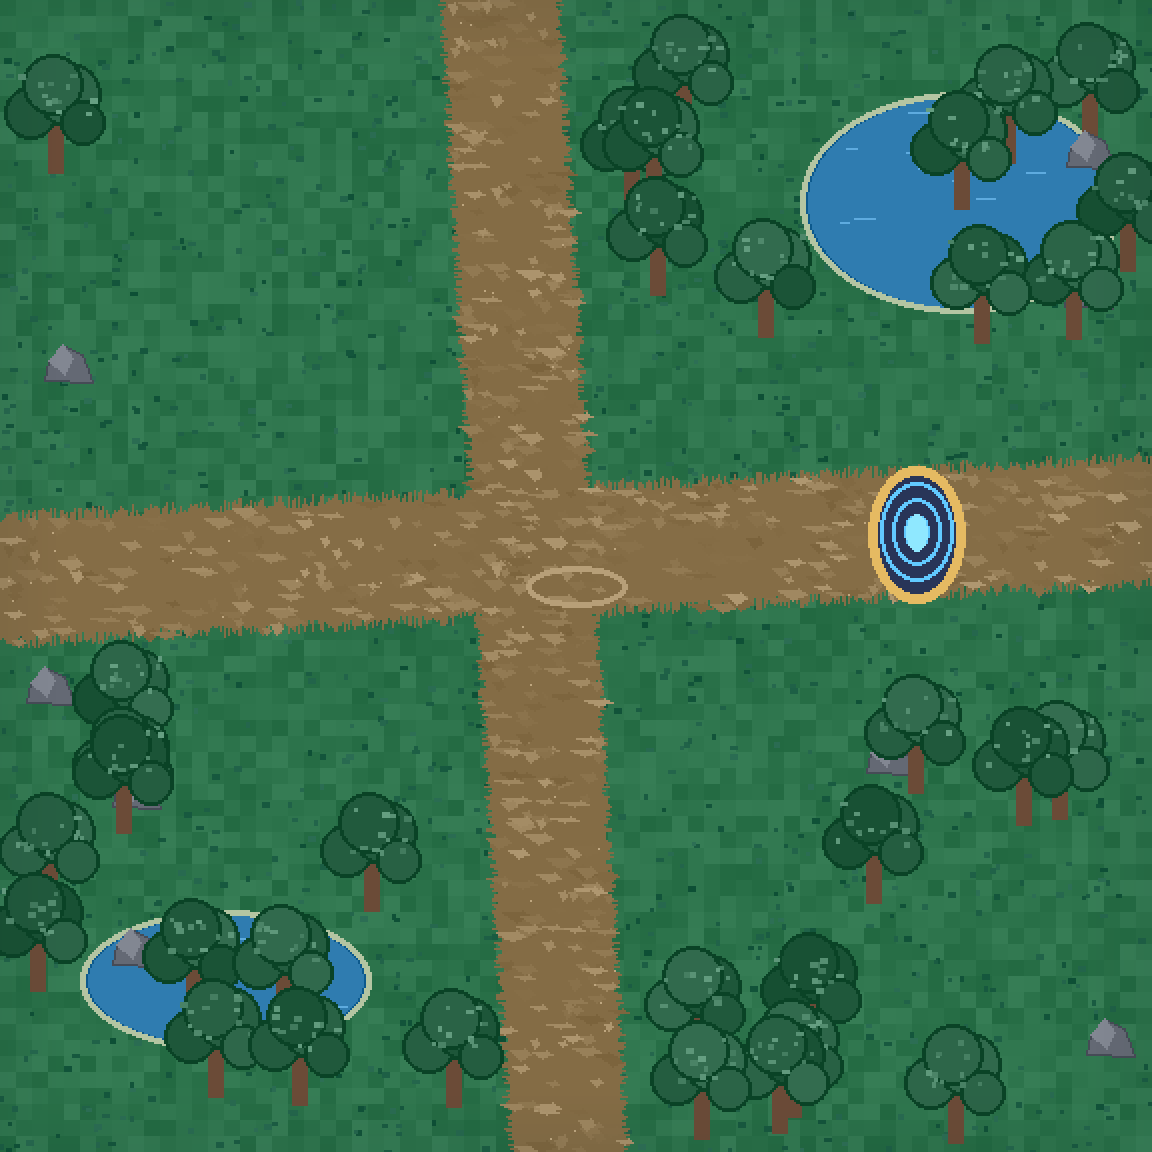
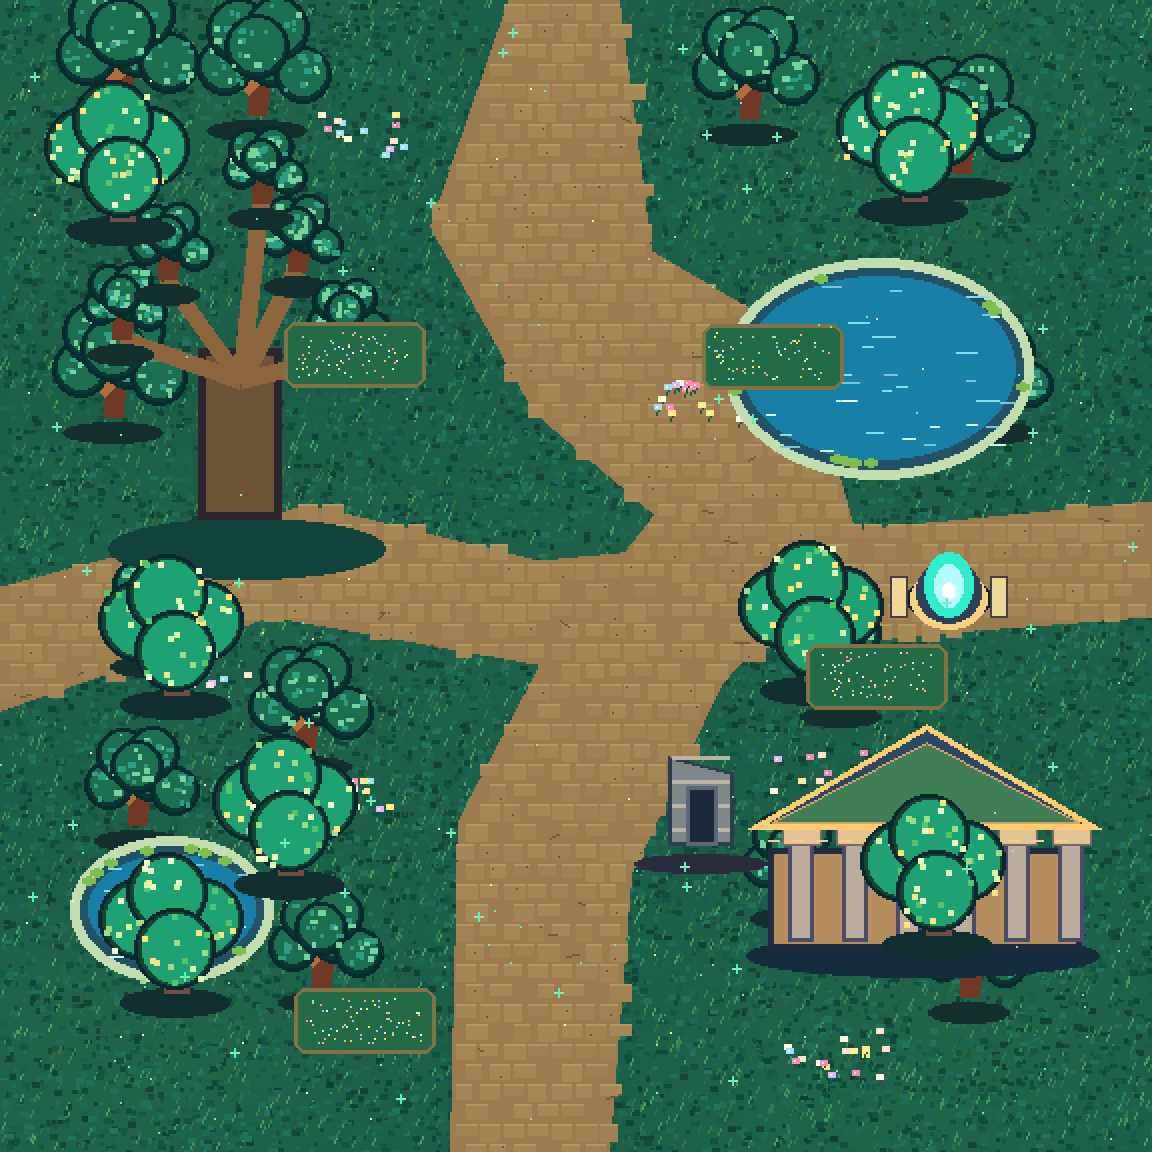
art(v0.5): ship detailed village and forest maps plus reproducible generator and atlas contract

diff --git a/tools/upgrade_assets_v05.py b/tools/upgrade_assets_v05.py
@@ -1,0 +1,291 @@
+from PIL import Image, ImageDraw, ImageEnhance, ImageFilter, ImageFont
+from pathlib import Path
+import math,random,json
+R=Path(__file__).resolve().parents[1]/'assets'
+M=R/'maps';S=R/'sprites';F=R/'effects';U=R/'ui'
+for p in [M,S,F,U]:p.mkdir(exist_ok=True,parents=True)
+PALETTES=[('#e9ad61','#975c49','#629f63','#57bada'),('#9bdca9','#487b59','#80d9b9','#5be6bc'),('#eacc94','#da9149','#bfbc6b','#92d4f5'),('#aac5ed','#7f91c5','#87a69c','#b0dcff'),('#ffd19c','#ba7055','#d7aa6c','#fed17d'),('#d0f2ff','#6e9fcb','#e9f5ff','#84dbff'),('#ffad6b','#b94142','#8c4953','#ff6d44'),('#cbb1e9','#62477c','#a491c2','#b56bee'),('#fff3d5','#a5b9d0','#b1f1e3','#ffd87a'),('#f6a28c','#832b37','#6b475d','#fd764e')]
+def C(t):return tuple(int(t.lstrip('#')[i:i+2],16) for i in (0,2,4))
+def mix(a,b,t):return tuple(int(a[k]*(1-t)+b[k]*t) for k in range(3))
+def rgba(color,a=255):return (*C(color),a)
+def hline(d,x,y,w,c,t=1):d.rectangle((x,y,x+w,y+t),fill=c)
+def brick(d,x,y,w,h,r,col):
+ d.rectangle((x,y,x+w,y+h),fill=col,outline='#564a60',width=2)
+ for k in range(int(h/7)):
+  yy=y+4+k*7
+  for j in range(int(w/16)+1):
+   xx=x+(j*16+(8 if k%2 else 0))
+   if xx<=x+w-5:d.line((xx,yy,xx+9,yy),fill='#dbc4ab',width=1)
+   if r.random()<.25:d.point((xx+4,yy-3),fill='#736671')
+def fortified_building(d,r,x,y,w,h,roof,tone=0):
+ # World-space building with wall facade, crenellations, window arches, flags and roof tile highlights.
+ d.ellipse((x-10,y+h-4,x+w+13,y+h+13),fill='#293743')
+ brick(d,x+4,y+12,w-8,h-8,r,'#a5a4a0' if tone==0 else '#8b7d77')
+ for ix in range(x+15,x+w-12,23):
+  d.rounded_rectangle((ix,y+28,ix+11,y+45),3,fill='#263449',outline='#d6b27f',width=2)
+  d.line((ix+5,y+30,ix+5,y+40),fill='#f4dc97',width=1)
+ for ix in range(x+8,x+w-6,14):d.rectangle((ix,y+4,ix+9,y+15),fill='#d6c3a5',outline='#6a5a60')
+ d.polygon([(x-15,y+15),(x+w//2,y-30),(x+w+14,y+15)],fill='#3b3346',outline='#f0bd70',width=2)
+ d.polygon([(x-10,y+9),(x+w//2,y-25),(x+w+9,y+9)],fill=roof,outline='#483247',width=2)
+ for k in range(4):
+  yy=y-17+k*7;span=int(w*(k+1)/10)
+  d.line((x+w//2-span,yy,x+w//2+span,yy),fill='#f5c58e',width=2)
+ for xx in range(x+13,x+w-6,16):d.line((xx,y+12,xx+6,y+16),fill='#76434b',width=1)
+ for side in [x+4,x+w-5]:
+  d.line((side,y+2,side,y-36),fill='#493948',width=2)
+  d.polygon([(side,y-34),(side+12,y-30),(side,y-23)],fill='#2a66aa')
+  d.line((side+2,y-30,side+8,y-30),fill='#efcf74',width=1)
+def fancy_tower(d,r,x,y,h=105):
+ d.ellipse((x-30,y-6,x+30,y+13),fill='#20303b')
+ d.polygon([(x-22,y),(x-24,y-h+22),(x+21,y-h+22),(x+21,y)],fill='#9ea7a8',outline='#55616b',width=3)
+ for k in range(5):
+  yy=y-h+24+k*16;d.line((x-21,yy,x+20,yy),fill='#e0ccae',width=2)
+ for yy in [y-h+46,y-h+66]:
+  d.rounded_rectangle((x-7,yy-7,x+6,yy+8),4,fill='#2c3550',outline='#edc783',width=2)
+ d.polygon([(x-32,y-h+23),(x,y-h-21),(x+33,y-h+23)],fill='#44344e',outline='#efc282',width=2)
+ d.polygon([(x-26,y-h+19),(x,y-h-16),(x+27,y-h+19)],fill='#405d9e',outline='#d8a967')
+ d.line((x,y-h-14,x,y-h-36),fill='#dec991',width=2)
+ d.polygon([(x,y-h-34),(x+18,y-h-29),(x,y-h-20)],fill='#d64e5b')
+def lamp(d,x,y):
+ d.ellipse((x-7,y,x+10,y+6),fill='#2a3842')
+ d.line((x,y,x,y-29),fill='#3b4056',width=5)
+ d.rounded_rectangle((x-7,y-41,x+6,y-28),2,fill='#edb75f',outline='#4c4150',width=2)
+ d.rectangle((x-3,y-40,x+3,y-30),fill='#ffe8a1')
+ d.polygon([(x-9,y-42),(x,y-49),(x+9,y-42)],fill='#424156')
+def decorated_tree(d,r,x,y,s=1.0,col='#49865d'):
+ z=int(25*s);d.ellipse((x-z,y-2,x+z,y+12),fill='#1a3233')
+ d.polygon([(x-5,y),(x+7,y),(x+6,y-31*s),(x-5,y-32*s)],fill='#6d5149')
+ for j,(ax,ay) in enumerate([(-.65,-1.35),(.55,-1.36),(-.13,-1.82),(0,-.8)]):
+  cx=int(x+z*ax);cy=int(y+z*ay);rr=int(z*.77)
+  d.ellipse((cx-rr,cy-rr,cx+rr,cy+rr),fill='#204536',outline='#132c32',width=2)
+  d.ellipse((cx-rr+4,cy-rr+3,cx+rr-3,cy+rr-3),fill=col)
+  for _ in range(14):
+   xx=cx+r.randint(-rr+3,rr-4);yy=cy+r.randint(-rr+3,rr-4)
+   d.rectangle((xx,yy,xx+2,yy+2),fill=r.choice(['#9fd08d','#d4eead','#5cbb72','#ffda83','#e1f1c5']))
+def banner(d,x,y,color='#335da2'):
+ d.line((x,y-63,x,y+3),fill='#33394c',width=3)
+ d.line((x,y-62,x+25,y-62),fill='#e4b96d',width=3)
+ d.polygon([(x+3,y-58),(x+22,y-58),(x+22,y-21),(x+12,y-28),(x+3,y-21)],fill=color,outline='#f9d693',width=2)
+ d.polygon([(x+12,y-52),(x+18,y-45),(x+12,y-33),(x+6,y-45)],fill='#ffdc80')
+def flowerbeds(d,r,x,y,w=70,h=32):
+ d.ellipse((x,y+h-9,x+w,y+h),fill='#315245')
+ d.rounded_rectangle((x,y,x+w,y+h),6,fill='#2d684a',outline='#7f724d',width=2)
+ for _ in range(70):
+  xx=x+r.randint(6,w-7);yy=y+r.randint(4,h-5)
+  d.point((xx,yy),fill=r.choice(['#f9e997','#f49ba9','#a3bcff','#fdfdf4','#eebd69','#a4d6ae']))
+def temple(d,r,x,y,idx):
+ color=PALETTES[idx];base='#555264' if idx in (3,7,9) else '#ad8b65'
+ d.ellipse((x-11,y+65,x+165,y+86),fill='#1d303f')
+ d.rectangle((x,y+22,x+156,y+72),fill=base,outline='#272d40',width=3)
+ for j in range(6):
+  xx=x+j*27+10;d.rectangle((xx,y+18,xx+12,y+68),fill='#b4a89c',outline='#4e4e65',width=2)
+  d.rectangle((xx-3,y+10,xx+16,y+20),fill='#d8bd95',outline='#756a68')
+ d.polygon([(x-10,y+12),(x+79,y-40),(x+166,y+12)],fill='#334862',outline='#efc57a',width=3)
+ d.polygon([(x+2,y+9),(x+79,y-31),(x+155,y+9)],fill=color[1],outline='#cb9c70',width=1)
+ for k in range(13):
+  xx=x+k*12;d.line((xx,y+18,xx+5,y+18),fill='#eac495',width=1)
+def glitter(d,r,idx):
+ palette=PALETTES[idx]
+ for _ in range(175):
+  x=r.randrange(8,568);y=r.randrange(12,568)
+  if 209<x<350 and 200<y<360:continue
+  if r.random()<.22:
+   d.line((x-2,y,x+2,y),fill=palette[0],width=1);d.line((x,y-2,x,y+2),fill=palette[3],width=1)
+  else:d.point((x,y),fill=r.choice([palette[0],palette[2],'#f8ebbb']))
+for idx in range(10):
+ fp=M/f'map-{idx+1:02d}.png';img=Image.open(fp).convert('RGB').resize((576,576),Image.Resampling.NEAREST)
+ d=ImageDraw.Draw(img);r=random.Random(5505+idx)
+ # Preserve road intersection and spawn geometry; elaborate map periphery with detailed original tile buildings.
+ if idx==0:
+  fortified_building(d,r,18,52,125,79,'#ae564a')
+  fancy_tower(d,r,475,101,111)
+  fortified_building(d,r,391,383,138,68,'#be7356')
+  for x,y,sz in [(151,88,1.3),(399,168,1.0),(78,512,1.2),(524,467,1.05),(530,208,.9),(65,385,1.2)]:decorated_tree(d,r,x,y,sz)
+  for x,y in [(200,206),(350,206),(178,353),(390,342),(382,85)]:banner(d,x,y)
+  for x,y in [(198,382),(365,399),(113,200),(417,436),(67,258)]:flowerbeds(d,r,x,y)
+  for x,y in [(214,188),(338,187),(213,380),(346,384)]:lamp(d,x,y)
+ elif idx==1:
+  temple(d,r,384,402,idx)
+  for x,y in [(60,110),(456,100),(468,467),(87,496),(144,437),(407,340),(87,347)]:decorated_tree(d,r,x,y,1.1,idx and '#2d9873')
+  for x,y in [(142,161),(403,322),(351,162),(147,494)]:flowerbeds(d,r,x,y)
+ elif idx==2:
+  fortified_building(d,r,16,61,127,74,'#c16841')
+  fancy_tower(d,r,486,134,88)
+  for x,y in [(72,165),(425,92),(480,512),(73,491),(156,505)]:decorated_tree(d,r,x,y,.9,'#7dac54')
+  for x,y in [(174,204),(350,399),(414,355),(35,382)]:flowerbeds(d,r,x,y)
+ elif idx==3:
+  temple(d,r,395,395,idx);fancy_tower(d,r,116,146,105);fortified_building(d,r,10,439,148,83,'#657da3')
+  for x,y in [(137,388),(396,193),(161,200)]:banner(d,x,y,'#315788')
+ elif idx==4:
+  temple(d,r,385,384,idx);fortified_building(d,r,20,80,119,65,'#a97757');fancy_tower(d,r,470,120,89)
+ elif idx==5:
+  fancy_tower(d,r,129,148,111);temple(d,r,380,407,idx)
+  for x,y in [(80,413),(430,152),(479,509),(190,105)]:decorated_tree(d,r,x,y,.85,'#9fcae8')
+ elif idx==6:
+  temple(d,r,383,370,idx);fancy_tower(d,r,125,143,110)
+  for x,y in [(140,401),(403,202),(165,145)]:banner(d,x,y,'#9b2538')
+ elif idx==7:
+  temple(d,r,390,394,idx);fortified_building(d,r,36,82,138,76,'#553972');fancy_tower(d,r,481,116,109)
+ elif idx==8:
+  temple(d,r,384,384,idx);fortified_building(d,r,30,60,125,81,'#d5e0e8')
+  for x,y in [(67,424),(497,154),(478,480)]:decorated_tree(d,r,x,y,.9,'#b4e5e2')
+ else:
+  temple(d,r,381,391,idx);fortified_building(d,r,17,70,142,76,'#542b43');fancy_tower(d,r,483,146,96)
+ glitter(d,r,idx)
+ img=ImageEnhance.Color(img).enhance(1.13);img=ImageEnhance.Contrast(img).enhance(1.08)
+ img.resize((1152,1152),Image.Resampling.NEAREST).save(fp,optimize=True)
+ print('ENHANCED',idx+1,fp.stat().st_size)
+
+# 4-direction overlays preserving the sprite contract: 4 columns x 8 directions, each frame 48x48 with transparent background.
+for job in range(4):
+ r=random.Random(900+job);colors=[('#ffd98a','#f9a76d','#e6f9ff'),('#75e0a8','#e3ffbb','#d4ffc4'),('#73dbff','#c4eaff','#f5efff'),('#ffc16b','#ff713e','#fff4a1')][job]
+ sheet=Image.new('RGBA',(192,384),(0,0,0,0))
+ for dr in range(8):
+  for frame in range(4):
+   cell=Image.new('RGBA',(48,48));d=ImageDraw.Draw(cell)
+   n=math.sin(frame*math.pi/2);flap=4*n
+   if dr in (4,3,5):face=-1
+   elif dr in (1,7,6):face=1
+   else:face=0
+   # animated independent magical cape/wing layer, connected to back anchor at (24,27).
+   for side in [-1,1]:
+    if dr==4: width=9
+    else:width=14+int(flap*side*.5)
+    x=24+side*2;tipx=24+side*(21+int(abs(flap)))
+    d.polygon([(x,23),(24+side*10,17),(tipx,7-int(flap)),(24+side*width,31),(x,33)],fill=rgba(colors[1],220),outline=rgba(colors[0],250))
+    for k in range(3):
+     d.line((x+side*5,20+k*3,tipx-side*2,11+k*4-int(flap)),fill=rgba(colors[2],240),width=1)
+   for k in range(3):
+    x=6+((job*3+dr*7+frame*5+k*13)%34);y=6+((k*13+job*2+dr*3)%26)
+    d.line((x-2,y,x+2,y),fill=rgba(colors[0],230));d.line((x,y-2,x,y+2),fill=rgba(colors[2],230))
+   sheet.alpha_composite(cell,(frame*48,dr*48))
+ sheet.save(S/f'wing-{job}.png',optimize=True)
+ print('WING',job)
+
+# Ten visually distinct boss creatures, real 4x8 PNG atlases with sprite-frame alignment and skill pose differences.
+BOSS_LABELS=['Royal Slime','Ancient Treant','Thunder Griffin','Stone Guardian','Desert Pharaoh','Frost Wyrm','Ember Drake','Night Empress','Seraph','Immortal Demon']
+BOSS_COLORS=[('#fa80c5','#f9bfd7','#ffda5f'),('#3f8b56','#b3d890','#d2a661'),('#a87e44','#fff1cb','#b7dfff'),('#67738d','#c7cbd3','#e7ac75'),('#b48e58','#e3c58f','#4bcbff'),('#3c8fdf','#defbff','#76ddff'),('#aa3537','#ff8241','#ffdb66'),('#513066','#bd86dc','#eb9cff'),('#e6d8a4','#fff4de','#b5dffa'),('#4c253a','#e44145','#ff8733')]
+def draw_boss(d,kind,frame,direction):
+ r=random.Random(kind*500+frame*17+direction)
+ dark,light,accent=BOSS_COLORS[kind];bob=[0,1,0,-1][frame];cy=25+bob
+ d.ellipse((9,42,41,47),fill=(6,10,30,85))
+ # dark outline and oversize silhouette unique to each family
+ if kind==0:
+  d.ellipse((7,17+bob,43,42+bob),fill=rgba(dark),outline=rgba('#633d6b'),width=2)
+  d.ellipse((10,19+bob,40,30+bob),fill=rgba(light))
+  d.polygon([(15,18),(18,10),(23,14),(27,8),(30,15),(35,11),(35,20)],fill=rgba('#dba64a'),outline=rgba('#fff2a0'))
+  d.ellipse((21,12,28,17),fill=rgba('#f4d662'))
+ elif kind==1:
+  d.rectangle((19,17+bob,32,42+bob),fill=rgba('#805b40'),outline=rgba('#433842'),width=2)
+  for arm in [-1,1]:
+   d.line((25,28+bob,25+arm*18,19+bob),fill=rgba('#755b45'),width=6)
+   d.ellipse((min(25+arm*12,25+arm*23),12+bob,max(25+arm*12,25+arm*23),25+bob),fill=rgba(dark),outline=rgba(light))
+  for x,y in [(12,18),(23,12),(34,16),(19,9),(31,9)]:d.ellipse((x-7,y-6,x+7,y+6),fill=rgba(dark),outline=rgba(accent))
+ elif kind in (2,5,6,9):
+  d.polygon([(24,24),(5,9+bob),(8,32+bob),(20,36+bob),(25,43)],fill=rgba(dark),outline=rgba(accent))
+  d.polygon([(25,24),(42,9+bob),(39,32+bob),(30,38+bob),(26,43)],fill=rgba(dark),outline=rgba(accent))
+  d.ellipse((13,22+bob,36,40+bob),fill=rgba(dark),outline=rgba(light),width=2)
+  d.polygon([(11,26+bob),(15,12+bob),(22,17+bob),(28,8+bob),(34,22+bob),(37,27+bob)],fill=rgba(light),outline=rgba(accent))
+  for x in [18,29]:d.polygon([(x-4,17+bob),(x,6+bob),(x+5,18+bob)],fill=rgba(accent))
+ elif kind in (3,4,7,8):
+  d.polygon([(14,42+bob),(16,23+bob),(11,13+bob),(23,6+bob),(34,12+bob),(30,23+bob),(35,42+bob)],fill=rgba(dark),outline=rgba(light),width=2)
+  d.ellipse((15,11+bob,34,30+bob),fill=rgba(light),outline=rgba(accent),width=2)
+  for arm in [-1,1]:
+   d.polygon([(23+arm*7,24+bob),(23+arm*18,22+bob),(23+arm*20,40+bob),(23+arm*12,44+bob)],fill=rgba(dark),outline=rgba(accent))
+  if kind==8:
+   for arm in [-1,1]:d.polygon([(24+arm*8,18+bob),(24+arm*24,6+bob),(24+arm*20,31+bob)],fill=rgba('#f7f7ea'),outline=rgba(accent))
+  else:d.polygon([(12,10+bob),(15,4+bob),(22,9+bob),(27,3+bob),(34,9+bob)],fill=rgba(accent))
+ # eyes and glints
+ for x in [20,30]:
+  d.rectangle((x-2,23+bob,x+1,25+bob),fill=rgba('#172433'))
+  d.point((x,23+bob),fill=rgba('#ffffff'))
+ for k in range(12):
+  x=r.randint(3,45);y=r.randint(3,39)
+  if frame==2 or k<3:
+   d.point((x,y),fill=rgba(accent,220));
+   if k%5==0:d.line((x-2,y,x+2,y),fill=rgba(light))
+for kind in range(10):
+ sheet=Image.new('RGBA',(192,384),(0,0,0,0))
+ for direction in range(8):
+  for frame in range(4):
+   cell=Image.new('RGBA',(48,48),(0,0,0,0));d=ImageDraw.Draw(cell)
+   draw_boss(d,kind,frame,direction);sheet.alpha_composite(cell,(frame*48,direction*48))
+ sheet.save(S/f'boss-{kind:02d}.png',optimize=True)
+ print('BOSS',kind,(S/f'boss-{kind:02d}.png').stat().st_size)
+
+# Four high-energy true animated 16-frame skill sprite sheets: 4 x 4 cells, each 96px transparent.
+for job in range(4):
+ sheet=Image.new('RGBA',(384,384),(0,0,0,0));rng=random.Random(23000+job)
+ cs=[('#f76564','#ffd69c','#fff1c9'),('#5ffb98','#b4ffbd','#e6fff1'),('#3d8cf7','#8adeff','#e7f5ff'),('#ffa53e','#ffc35a','#fff0b8')][job]
+ for frame in range(16):
+  im=Image.new('RGBA',(96,96));d=ImageDraw.Draw(im)
+  phase=frame/15;radius=7+phase*36;fade=255 if frame<11 else int(255*(1-(frame-10)/6))
+  if job==0:
+   # directional slash and explosive melee trails
+   a=math.radians(-155+260*phase)
+   for z in range(5):
+    ang=a+z*.045;rad=radius+z*3
+    box=(48-rad,48-rad,48+rad,48+rad)
+    d.arc(box,math.degrees(ang),math.degrees(ang)+170,fill=rgba(cs[z%3],fade),width=max(1,7-z))
+   d.line((48,48,48+math.cos(a)*radius*1.15,48+math.sin(a)*radius*1.15),fill=rgba(cs[2],fade),width=3)
+  elif job==1:
+   # emerald arrow burst ring and 8 feather rays
+   for a in range(0,360,45):
+    t=math.radians(a+frame*6);x=48+math.cos(t)*radius;y=48+math.sin(t)*radius
+    d.line((48,48,x,y),fill=rgba(cs[0],fade),width=3)
+    d.polygon([(x,y),(x-5*math.sin(t),y+5*math.cos(t)),(x+8*math.cos(t),y+8*math.sin(t))],fill=rgba(cs[1],fade))
+   d.ellipse((48-radius*.4,48-radius*.4,48+radius*.4,48+radius*.4),outline=rgba(cs[2],fade),width=2)
+  elif job==2:
+   # ice crystals and magic circles
+   for k in range(8):
+    a=2*math.pi*k/8+phase*.2;x=48+math.cos(a)*radius;y=48+math.sin(a)*radius
+    d.line((48,48,x,y),fill=rgba(cs[k%3],fade),width=3)
+    d.polygon([(x,y-7),(x+4,y),(x,y+8),(x-4,y)],fill=rgba(cs[2],fade))
+   d.arc((48-radius,48-radius,48+radius,48+radius),frame*22,frame*22+265,fill=rgba(cs[1],fade),width=3)
+  else:
+   # fire shockwave and pulsing meteors
+   for k in range(10):
+    a=(k*2*math.pi/10)+phase*.3;x=48+math.cos(a)*radius;y=48+math.sin(a)*radius
+    rr=4+6*math.sin(phase*math.pi)
+    d.polygon([(x,y-rr),(x+rr*.7,y+3),(x,y+rr*.9),(x-rr*.7,y+3)],fill=rgba(cs[k%3],fade))
+   d.ellipse((48-radius*.6,48-radius*.6,48+radius*.6,48+radius*.6),outline=rgba(cs[0],fade),width=4)
+  for k in range(10):
+   x=rng.randint(10,86);y=rng.randint(10,86)
+   if frame%2==k%2:d.point((x,y),fill=rgba(cs[1],max(0,fade-45)))
+  sheet.alpha_composite(im,((frame%4)*96,(frame//4)*96))
+ sheet.save(F/f'skill-{job}.png',optimize=True)
+ print('SKILL',job,(F/f'skill-{job}.png').stat().st_size)
+
+# UI icons - source-authored, transparent RGBA atlas, 6 columns x 4 rows, 64 px cells.
+ic=Image.new('RGBA',(384,256));d=ImageDraw.Draw(ic)
+colors=['#ffac68','#7ddcff','#f66b8a','#72d4a0','#bd94ff','#f3d77e']
+for y in range(4):
+ for x in range(6):
+  cx=x*64+32;cy=y*64+32
+  d.rounded_rectangle((cx-27,cy-27,cx+27,cy+27),9,fill='#12213d',outline='#a77743',width=3)
+  d.rounded_rectangle((cx-23,cy-23,cx+23,cy+23),7,outline='#efc681',width=1)
+  clr=colors[(y+x)%6]
+  if y==0:
+   d.polygon([(cx-7,cy+18),(cx+4,cy-18),(cx+13,cy-14),(cx+1,cy+18)],fill=clr,outline='#fff4cd')
+  elif y==1:
+   d.ellipse((cx-14,cy-14,cx+14,cy+14),fill=clr,outline='#fff0d1',width=3)
+   d.rectangle((cx-4,cy-18,cx+4,cy-10),fill='#e8cb94')
+  elif y==2:
+   d.rectangle((cx-15,cy-14,cx+15,cy+16),fill=clr,outline='#f6d49c',width=2)
+   d.line((cx-12,cy-2,cx+12,cy-2),fill='#14283e',width=3)
+  else:
+   d.polygon([(cx,cy-19),(cx+17,cy-5),(cx+13,cy+17),(cx-13,cy+17),(cx-17,cy-5)],fill=clr,outline='#f7e8b7',width=2)
+  d.point((cx-13,cy-17),fill='#fff8d0')
+ic.save(U/'interface-icons-v05.png',optimize=True)
+manifest={
+ 'version':'0.5-art-foundation','frame':48,'hero_sprite':{'cols':4,'rows':8,'size':[192,384]},
+ 'boss_sprite':{'cols':4,'rows':8,'size':[192,384]},
+ 'wings':{'cols':4,'rows':8,'size':[192,384]},
+ 'skill_effect':{'cols':4,'rows':4,'frame':96,'size':[384,384]},
+ 'ui_atlas':{'cols':6,'rows':4,'frame':64,'size':[384,256]},
+ 'maps':[f'map-{i+1:02d}.png' for i in range(10)],
+ 'bosses':[f'boss-{i:02d}.png' for i in range(10)],
+ 'note':'Source-made layered procedurally pixel-rendered game assets, not crops of reference collages. Art remains an intermediate style iteration.'
+}
+(R/'manifest_v05.json').write_text(json.dumps(manifest,ensure_ascii=False,indent=2),encoding='utf-8')
+print('DONE')
